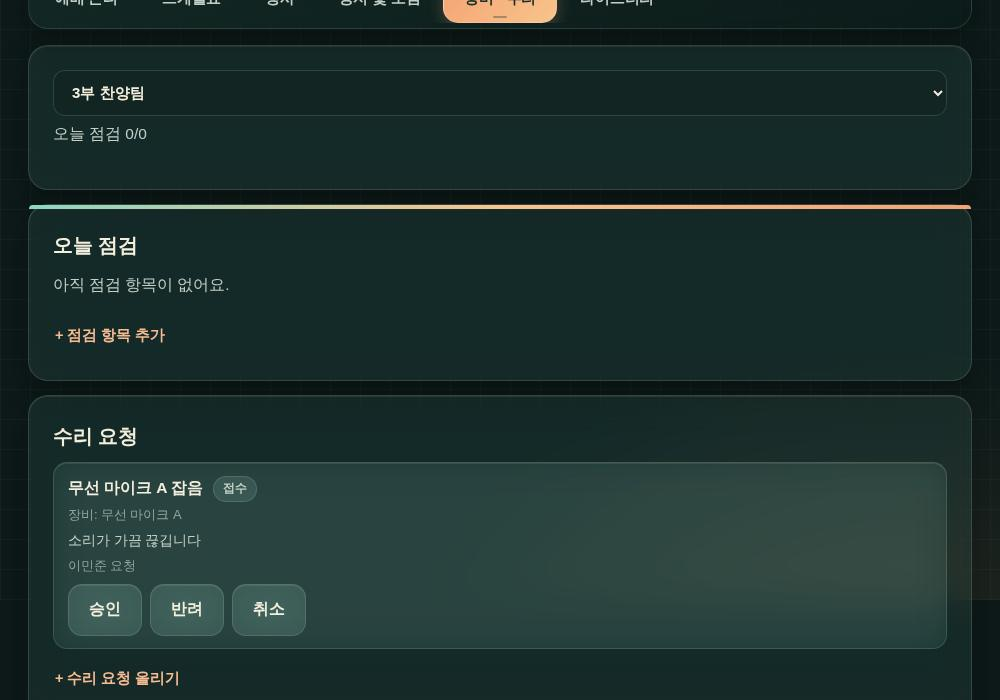
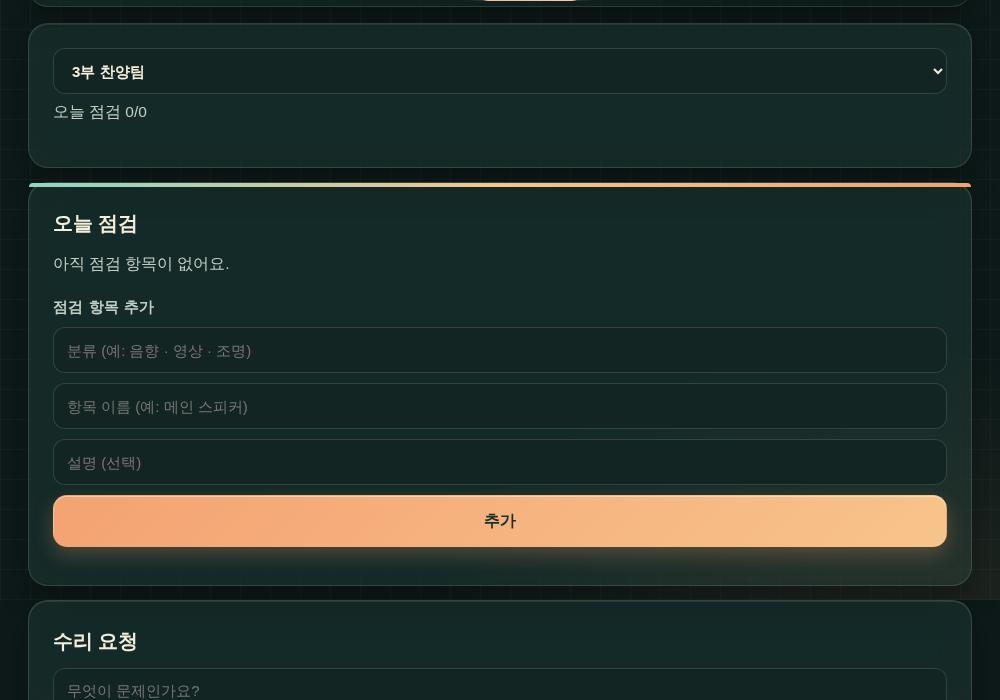
달력 띠에 특별예배(부흥회 등)를 날짜 칸 옆 별도 칸으로 · 메뉴/화면 이름 '행사' → '특별예배' · 사용설명서 갱신
Claude-Session: https://claude.ai/code/session_01WLWLx1gky7YQ44VpLtfgQk

diff --git a/routes/guide.js b/routes/guide.js
@@ -33,12 +33,12 @@ const SECTIONS = [
     ${fig('login', '로그인 화면', ['<b>Google로 로그인</b> — 이 버튼 하나로 시작해요.'])}
     ${warn('이름 한 글자만 달라도(띄어쓰기 포함) 가입이 막혀요. 가입 화면 아래 빨간 글씨로 이유가 나와요.')}
     <h3>객원 멤버로 가입하기</h3>
-    <p>팀원이 아닌데 가끔 서는 분은 가입할 때 <b>객원 멤버로 가입</b>에 체크하세요. 명단에 없어도 가입할 수 있고, <b>내가 스케줄에 서는 날</b>의 콘티 · 라이브 악보 · 필기 · 댓글과 공지만 볼 수 있어요. (행사 · 장비 · 라이브러리 메뉴는 보이지 않아요.)</p>`)],
+    <p>팀원이 아닌데 가끔 서는 분은 가입할 때 <b>객원 멤버로 가입</b>에 체크하세요. 명단에 없어도 가입할 수 있고, <b>내가 스케줄에 서는 날</b>의 콘티 · 라이브 악보 · 필기 · 댓글과 공지만 볼 수 있어요. (특별예배 · 장비 · 라이브러리 메뉴는 보이지 않아요.)</p>`)],
 
   ['menu', '화면 둘러보기', sec('menu', 2, '화면 둘러보기', '맨 위 배너와 메뉴는 모든 화면에서 똑같이 있어요.', `
     ${fig('menu', '맨 위 배너와 메뉴', [
       '<b>사용설명서</b> — 지금 보고 있는 이 안내서예요. 옆에 <b>내 정보 수정</b> · <b>관리</b>(관리자만, 팀원관리 포함) · <b>로그아웃</b>이 있어요.',
-      '<b>메뉴</b> — 예배 콘티 · 스케줄표 · 행사 · 공지 및 모임 · 장비·수리 · 라이브러리. 누르면 페이지를 새로 열지 않고 바로 바뀌어요.',
+      '<b>메뉴</b> — 예배 콘티 · 스케줄표 · 특별예배 · 공지 및 모임 · 장비·수리 · 라이브러리. 누르면 페이지를 새로 열지 않고 바로 바뀌어요.',
       '<b>화면 모드</b> — 어두운 화면 / 밝은 화면 전환.',
       '<b>새로고침</b> — 화면이 이상하면 한 번 눌러 보세요.'])}
     <ul class="gd-list">
@@ -56,7 +56,7 @@ const SECTIONS = [
       '<b>카카오톡 콘티 요약 복사</b> — 콘티를 카톡에 붙여 넣기 좋은 글로 만들어 복사해요.',
       '<b>오프라인용 다운로드</b> — 인터넷이 약한 교회에서도 쓰도록 콘티·악보를 기기에 저장해요.',
       '<b>방송팀 보기 링크</b> — 로그인 없이 볼 수 있는 링크예요. (관리자 항목 참고)'])}
-    <p>맨 위 날짜 줄에서 다른 주일을 누르면 그날 콘티로 바뀌고, <b>다음 주일</b>을 누르면 곧바로 이번에 오는 주일로 와요. 오른쪽 달력 모양으로는 아무 날짜나 고를 수 있어요. 같은 날 다른 예배(예: 부흥회)가 있으면 위에 안내가 떠서 그 콘티로 넘어갈 수 있어요.</p>
+    <p>맨 위 날짜 줄에서 다른 주일을 누르면 그날 콘티로 바뀌고, <b>다음 주일</b>을 누르면 곧바로 이번에 오는 주일로 와요. 오른쪽 달력 모양으로는 아무 날짜나 고를 수 있어요. 주일이 아닌 <b>특별예배</b>(예: 부흥회)는 날짜 칸 바로 옆에 <b>점선 칸</b>으로 따로 나와요. 날짜는 같아도 칸 아래에 예배 이름이 적혀 있어서, 눌러야 그 예배의 콘티로 가요(주일 콘티와는 별도 기록).</p>
     <h3>② 주일 편성 — 누가 어디를 맡나</h3>
     ${fig('lineup', '주일 편성 표', [])}
     <p>피아노 · 신디 · 드럼 · 베이스 · 일렉 · 어쿠기타 · 인도자 · 싱어 · 음향 · PPT 등 자리별로 맡은 사람이 사진/이름으로 보여요. <b>칸을 누르면 바로 배정</b>할 수 있어요. 비어 있으면 <em>—</em>로 표시돼요.</p>
@@ -131,12 +131,12 @@ const SECTIONS = [
     </ul>
 `)],
 
-  ['events', '행사', sec('events', 6, '행사', '주일예배가 아닌 날(성탄절 · 송구영신예배 · 부흥회 등)에 서는 일정을 따로 관리해요.', `
-    ${fig('events', '행사 화면', [])}
+  ['events', '특별예배', sec('events', 6, '특별예배', '주일예배가 아닌 날(성탄절 · 송구영신예배 · 부흥회 등)에 서는 일정을 따로 관리해요.', `
+    ${fig('events', '특별예배 화면', [])}
     <ul class="gd-list">
-      <li><b>다가오는 행사</b>를 누르면 그 행사의 콘티 화면으로 가요. 주일 콘티와 <b>별도 기록</b>이라 서로 섞이지 않아요.</li>
-      <li><b>+ 주일 외 서는 날 추가</b> — 날짜와 행사 이름을 넣으면 스케줄표 · 콘티에도 나타나요.</li>
-      <li>행사 카드 아래 <b>⋯</b> 메뉴에서 행사를 정리할 수 있어요.</li>
+      <li><b>다가오는 특별예배</b>를 누르면 그 특별예배의 콘티 화면으로 가요. 주일 콘티와 <b>별도 기록</b>이라 서로 섞이지 않아요.</li>
+      <li><b>+ 주일 외 서는 날 추가</b> — 날짜와 특별예배 이름을 넣으면 스케줄표 · 콘티에도 나타나요.</li>
+      <li>특별예배 카드 아래 <b>⋯</b> 메뉴에서 특별예배를 정리할 수 있어요.</li>
     </ul>`, '객원 멤버는 안 보여요')],
 
   ['notices', '공지 및 모임', sec('notices', 7, '공지 및 모임', '팀 공지, 기도제목, 모임 안내를 한곳에서 보고 올려요.', `
@@ -195,7 +195,7 @@ const SECTIONS = [
     <details class="gd-q"><summary>메트로놈 BPM이 안 바뀌어요</summary><p>다른 사람이 <b>클릭 컨트롤</b>을 맡고 있으면 내 조작이 막혀요. <b>함께</b> 탭에서 클릭 컨트롤을 넘겨받거나 따라가기를 끄세요.</p></details>
     <details class="gd-q"><summary>인터넷이 느린 교회에서 쓰려면?</summary><p>콘티 화면의 <b>오프라인용 다운로드</b>로 미리 저장해 두세요.</p></details>
     <details class="gd-q"><summary>화면이 이상해요 / 옛날 화면이에요</summary><p>배너 오른쪽 위 <b>새로고침</b> 버튼을 누르거나 페이지를 다시 열어 보세요.</p></details>
-    <details class="gd-q"><summary>못 보는 메뉴가 있어요</summary><p>객원 멤버에게는 행사 · 장비 · 라이브러리가 보이지 않아요. 정식 팀원인데 안 보이면 관리자에게 문의하세요.</p></details>`)],
+    <details class="gd-q"><summary>못 보는 메뉴가 있어요</summary><p>객원 멤버에게는 특별예배 · 장비 · 라이브러리가 보이지 않아요. 정식 팀원인데 안 보이면 관리자에게 문의하세요.</p></details>`)],
 ];
 
 router.get('/guide', async (req, res) => {

diff --git a/lib/hubApi.js b/lib/hubApi.js
@@ -77,7 +77,7 @@ async function boot(user) {
 
 async function events(team) {
   return (await sheetsDb.readAll('특별예배')).filter((r) => r['팀ID'] === team && isDate(r['날짜']))
-    .map((r) => ({ key: 'ev-' + r['ID'], id: r['ID'], date: r['날짜'], endDate: r['날짜'], name: String(r['이름'] || '행사'), kind: '행사', place: '' }));
+    .map((r) => ({ key: 'ev-' + r['ID'], id: r['ID'], date: r['날짜'], endDate: r['날짜'], name: String(r['이름'] || '특별예배'), kind: '행사', place: '' }));
 }
 /** 키(날짜 · ev-ID) → 이 앱 범위 { event, date } */
 async function scopeOfKey(team, key) {
@@ -625,7 +625,7 @@ async function hubStatsDoc(u, months, kind, lead, q) {
   const leaders = sortN(Object.values(인도)), people = sortN(Object.values(사람));
   const rangeName = [months ? '최근 ' + months + '개월' : '전체 기간', kind && kind !== 'all' ? (kind === '결단' ? '결단찬양만' : kind + '만') : '', lead ? '인도자 ' + escD(lead) : '', q ? '검색 "' + q + '"' : ''].filter(Boolean).join(' · ');
   const table = (h, rows, tr) => (rows.length ? '<table class="grid num">' + thead(h) + '<tbody>' + rows.map(tr).join('') + '</tbody></table>' : '<div class="box">기록이 없습니다.</div>');
-  let body = '<div class="stats"><div class="stat"><div class="v">' + Object.keys(예배).length + '</div><div class="k">콘티가 있는 예배 · 행사</div></div>' +
+  let body = '<div class="stats"><div class="stat"><div class="v">' + Object.keys(예배).length + '</div><div class="k">콘티가 있는 예배 · 특별예배</div></div>' +
     '<div class="stat"><div class="v">' + items.length + '</div><div class="k">곡 사용 횟수</div></div><div class="stat"><div class="v">' + songs.length + '</div><div class="k">서로 다른 곡</div></div>' +
     '<div class="stat"><div class="v">' + (songs[0] ? escD(songs[0].name) : '—') + '</div><div class="k">가장 많이 부른 곡' + (songs[0] ? ' (' + songs[0].n + '회)' : '') + '</div></div></div>';
   body += '<h2>많이 부른 곡 (상위 ' + Math.min(30, songs.length) + ')</h2>' + table([{ t: '#', w: '8mm' }, '곡', '팀 · 아티스트', { t: '횟수', r: 1 }, '마지막', '자주 쓴 Key'], songs.slice(0, 30),
@@ -633,7 +633,7 @@ async function hubStatsDoc(u, months, kind, lead, q) {
   body += '<div class="two"><div><h2>인도자별</h2>' + table(['인도자', { t: '횟수', r: 1 }, '마지막'], leaders.slice(0, 20), (x) => '<tr><td style="font-weight:700;">' + escD(x.name) + '</td><td class="r">' + x.n + '</td><td>' + escD(x.last) + '</td></tr>') + '</div>' +
     '<div><h2>팀원 참여 (상위 ' + Math.min(20, people.length) + ')</h2>' + table(['이름', { t: '횟수', r: 1 }, '마지막'], people.slice(0, 20), (x) => '<tr><td style="font-weight:700;">' + escD(x.name) + '</td><td class="r">' + x.n + '</td><td>' + escD(x.last) + '</td></tr>') + '</div></div>';
   const mk = Object.keys(월).sort();
-  if (mk.length) body += '<h2>월별 예배 수</h2>' + table(['월', { t: '예배 · 행사', r: 1 }], mk, (m) => '<tr><td>' + escD(m) + '</td><td class="r">' + 월[m] + '</td></tr>');
+  if (mk.length) body += '<h2>월별 예배 수</h2>' + table(['월', { t: '예배 · 특별예배', r: 1 }], mk, (m) => '<tr><td>' + escD(m) + '</td><td class="r">' + 월[m] + '</td></tr>');
   return docRes(escD(u.team) + ' 콘티 통계 보고서', escD(rangeName) + ' &nbsp;·&nbsp; ' + escD(d.today) + ' 기준', body, '콘티통계_' + (months ? months + '개월' : '전체') + (kind && kind !== 'all' ? '_' + kind : '') + (lead ? '_' + lead : '') + (q ? '_검색' : ''), false);
 }
 

diff --git a/routes/conti.js b/routes/conti.js
@@ -375,7 +375,7 @@ async function historyFor(team, scope) {
   const days = new Map();
   mine.forEach((r) => {
     const k = r['행사ID'] ? 'ev-' + r['행사ID'] : String(r['날짜']);
-    if (!days.has(k)) days.set(k, { key: k, date: String(r['날짜']), name: r['행사ID'] ? (evName.get(r['행사ID']) || '행사') : '', songs: [] });
+    if (!days.has(k)) days.set(k, { key: k, date: String(r['날짜']), name: r['행사ID'] ? (evName.get(r['행사ID']) || '특별예배') : '', songs: [] });
     days.get(k).songs.push(r);
   });
   const list = Array.from(days.values()).map((d) => {
@@ -629,31 +629,22 @@ router.get('/conti', requireTeam, async (req, res) => {
 
   const w = await loadWeek(team, scope);
 
-  let strip = '';
   let dayBanner = '';
-  if (!scope.event) {
-    const allAssignRows = (await sheetsDb.readAll('찬양편성')).filter((r) => r['팀ID'] === team && !r['행사ID']);
-    strip = pageShell.weekStrip({ basePath: '/conti', team, date, assignRows: allAssignRows });
-    const todaysEvents = (await specialServices(team)).filter((e) => e['날짜'] === date);
-    if (todaysEvents.length) {
-      dayBanner = `<div class="ph-card ph-eventsbanner">
-        <p class="ph-sub">이 날 다른 예배도 있어요 — 콘티·편성은 주일예배와 서로 다른 별도 기록이에요.</p>
-        <div class="ph-list">${todaysEvents.map((e) => `<div class="ph-list-item"><div class="ph-li-main">
-          <a class="ph-li-link strong" href="/conti?team=${encodeURIComponent(team)}&event=${encodeURIComponent(e['ID'])}">${esc(e['이름'])} 콘티 보기 →</a>
-        </div></div>`).join('')}</div>
-      </div>`;
-    }
-  } else {
+  const allAssignRows = (await sheetsDb.readAll('찬양편성')).filter((r) => r['팀ID'] === team);
+  const evs = (await specialServices(team)).map((e) => ({ id: e['ID'], name: String(e['이름'] || '특별예배'), date: e['날짜'] }));
+  // 달력 띠 — 특별예배(부흥회 등)는 같은 날짜라도 날짜 칸 옆에 따로 (눌러서 오감)
+  const strip = pageShell.weekStrip({ basePath: '/conti', team, date, assignRows: allAssignRows, events: evs, activeEvent: scope.event ? scope.event : '' });
+  if (scope.event) {
     dayBanner = `<div class="ph-card ph-eventsbanner">
       <p class="ph-sub">${esc(eventRow['이름'])} 콘티예요 — 주일예배와는 별도 기록입니다. <a href="/conti?team=${encodeURIComponent(team)}&date=${encodeURIComponent(date)}">이 날짜의 주일예배 콘티 보기 →</a></p>
-      <p class="ph-sub"><a href="/events?team=${encodeURIComponent(team)}">← 행사 목록으로</a></p>
+      <p class="ph-sub"><a href="/events?team=${encodeURIComponent(team)}">← 특별예배 목록으로</a></p>
     </div>`;
   }
 
   const guestToken = await guestLink.tokenFor(team).catch(() => '');
 
   const hero = pageShell.hero(scope.event
-    ? { eyebrow: `${team} · 행사 콘티`, title: eventRow['이름'], sub: week.labelKo(date) }
+    ? { eyebrow: `${team} · 특별예배 콘티`, title: eventRow['이름'], sub: week.labelKo(date) }
     : { eyebrow: `${team} · 예배콘티`, title: '예배콘티', sub: week.labelKo(date) });
   const { byPos, roster, infoMap } = await weekAssignments(team, scope);
   const lineup = await lineupCard(team, scope, byPos, roster, infoMap, scope.event ? eventRow['이름'] : '', ctx.isAdmin);

diff --git a/lib/pageShell.js b/lib/pageShell.js
@@ -40,7 +40,7 @@ function esc(s) { return String(s == null ? '' : s).replace(/[&<>"']/g, (c) => (
 const HUB_TABS = [
   ['conti', '/conti', '예배 콘티'],
   ['schedule', '/schedule', '스케줄표'],
-  ['events', '/events', '행사'],
+  ['events', '/events', '특별예배'],
   ['notices', '/notices', '공지 및 모임'],
   ['equipment', '/equipment', '장비 · 수리'],
   ['library', '/library', '라이브러리'],
@@ -154,22 +154,37 @@ function decorate(content, who) {
  * @param {{basePath:string, team:string, date:string, assignRows:object[], extraQuery?:string}} o
  */
 function weekStrip(o) {
-  const center = o.date;
   const extra = o.extraQuery || '';
   const total = ALL_POSITIONS.length;
   const todayWeek = weekUtil.normalizeDate(null);
+  const events = (o.events || []).filter((e) => e && e.date);
+  const evId = o.activeEvent || '';
+  // 특별예배(부흥회 등)를 보고 있을 때는 그 날이 속한 주일(일요일)을 가운데로
+  let center = o.date;
+  if (evId) { const x = new Date(o.date + 'T12:00:00'); x.setDate(x.getDate() - x.getDay()); center = x.toISOString().slice(0, 10); }
   const cells = [];
   for (let i = -3; i <= 3; i++) {
     const d = weekUtil.shiftWeek(center, i);
     const dd = new Date(d + 'T12:00:00');
-    const filled = new Set((o.assignRows || []).filter((r) => r['날짜'] === d).map((r) => r['포지션'])).size;
+    const filled = new Set((o.assignRows || []).filter((r) => r['날짜'] === d && !r['행사ID']).map((r) => r['포지션'])).size;
     const href = `${o.basePath}?team=${encodeURIComponent(o.team)}&date=${encodeURIComponent(d)}${extra}`;
-    const on = d === center;
-    cells.push(`<a class="ph-wstrip-cell${on ? ' on' : ''}" href="${href}">
+    const on = d === center && !evId;
+    cells.push(`<a class="ph-wstrip-cell${on ? ' on' : ''}" href="${href}"${on ? ' aria-current="page"' : ''}>
       <span class="ph-wstrip-month">${dd.getMonth() + 1}월</span>
       <span class="ph-wstrip-day">${dd.getDate()}</span>
       <span class="ph-wstrip-ratio">${filled}/${total}</span>
     </a>`);
+    // 그 주(일요일~토요일)에 있는 특별예배는 날짜 칸 바로 옆에 따로 — 날짜는 그대로, 아래 글씨만 예배 이름
+    const end = weekUtil.shiftWeek(d, 1);
+    events.filter((e) => e.date >= d && e.date < end).sort((a, b) => a.date.localeCompare(b.date)).forEach((e) => {
+      const ed = new Date(e.date + 'T12:00:00');
+      const eon = evId && String(e.id) === String(evId);
+      cells.push(`<a class="ph-wstrip-cell ph-wstrip-ev${eon ? ' on' : ''}" href="${o.basePath}?team=${encodeURIComponent(o.team)}&event=${encodeURIComponent(e.id)}"${eon ? ' aria-current="page"' : ''} title="${esc(e.name)}">
+      <span class="ph-wstrip-month">${ed.getMonth() + 1}월</span>
+      <span class="ph-wstrip-day">${ed.getDate()}</span>
+      <span class="ph-wstrip-evname">${esc(e.name)}</span>
+    </a>`);
+    });
   }
   const jumpHref = `${o.basePath}?team=${encodeURIComponent(o.team)}&date=${encodeURIComponent(todayWeek)}${extra}`;
   return `<div class="ph-wstrip">

diff --git a/routes/events.js b/routes/events.js
@@ -23,7 +23,7 @@ async function requireTeam(req, res, next) {
   if (!ctx.teams.length) {
     return spa.send(req, res,
       `${pageShell.hubNav('events', '')}<div class="ph-card"><p class="ph-sub">아직 소속된 찬양팀이 없어요. 관리자에게 문의해주세요.</p><a class="ph-btn" href="/">← 허브로</a></div>`,
-      { title: '행사' },
+      { title: '특별예배' },
     );
   }
   req.ctx = ctx;
@@ -55,7 +55,7 @@ function eventItem(s, team, isAdmin) {
       </form>
       <form method="post" action="/events/delete" onsubmit="return confirm('${esc(s['이름'])}(${esc(s['날짜'])}) 표시를 지울까요? (콘티 내용 자체는 안 지워져요)')">
         <input type="hidden" name="__row" value="${s.__row}"><input type="hidden" name="team" value="${esc(team)}">
-        <button class="ph-row-del" type="submit" style="width:100%;" title="삭제">${ui.icon('close')} 이 행사 삭제</button>
+        <button class="ph-row-del" type="submit" style="width:100%;" title="삭제">${ui.icon('close')} 이 특별예배 삭제</button>
       </form>
     </details>` : ''}
   </div>`;
@@ -81,24 +81,24 @@ router.get('/events', requireTeam, async (req, res) => {
       </form>
     </details>` : '';
 
-  const hero = pageShell.hero({ eyebrow: `${team} · 행사`, title: '행사', sub: '주일이 아닌 예배입니다. 주일과 똑같이 편성·콘티·악보를 준비합니다.' });
+  const hero = pageShell.hero({ eyebrow: `${team} · 특별예배`, title: '특별예배', sub: '주일이 아닌 예배입니다. 주일과 똑같이 편성·콘티·악보를 준비합니다.' });
 
   const content = `
   ${pageShell.hubNav('events', team)}
   ${hero}
   <div class="ph-card">
     ${teamContext.teamSwitcher(ctx, { keep: {} })}
-    <h2 class="ph-h2">다가오는 행사</h2>
+    <h2 class="ph-h2">다가오는 특별예배</h2>
     <div class="ph-list">${upcoming.length ? upcoming.map((s) => eventItem(s, team, ctx.isAdmin)).join('') : '<p class="ph-sub">아직 등록된 날이 없어요. 성탄절·송구영신예배·특별새벽기도·부흥회·철야기도회 등을 추가해두면 그 날짜의 예배콘티로 바로 갈 수 있어요.</p>'}</div>
     ${addForm}
   </div>
 
   ${past.length ? `<div class="ph-card">
-    <h2 class="ph-h2">지난 행사</h2>
+    <h2 class="ph-h2">지난 특별예배</h2>
     <div class="ph-list">${past.map((s) => eventItem(s, team, ctx.isAdmin)).join('')}</div>
   </div>` : ''}
   `;
-  spa.send(req, res, content, { title: `${team} 행사` });
+  spa.send(req, res, content, { title: `${team} 특별예배` });
 });
 
 router.post('/events/add', requireTeam, async (req, res) => {

diff --git a/public/css/app.css b/public/css/app.css
@@ -1205,3 +1205,9 @@ a { color: var(--accent-ink); text-decoration: none; }
 .rp-item.rp-on { border-color: var(--accent); background: color-mix(in srgb, var(--accent) 14%, transparent); }
 .rp-item.rp-on .rp-playbtn { background: var(--accent); color: #1a0f08; }
 @media (max-width: 560px) { .rp-vol { width: 90px; } .rp-lb { min-width: 100%; } }
+
+/* 달력 띠의 특별예배 칸(부흥회 등) — 날짜는 똑같이, 아래에 예배 이름 */
+.ph-wstrip-ev { width: 78px; border-style: dashed; border-color: color-mix(in srgb, var(--accent) 55%, transparent); background: color-mix(in srgb, var(--accent) 9%, var(--glass)); color: var(--text); }
+.ph-wstrip-ev.on { border-style: solid; }
+.ph-wstrip-evname { font-size: 12px; font-weight: 800; line-height: 1.2; max-width: 100%; overflow: hidden; text-overflow: ellipsis; white-space: nowrap; color: var(--accent-ink); }
+.ph-wstrip-ev.on .ph-wstrip-evname { color: var(--on-accent); }
